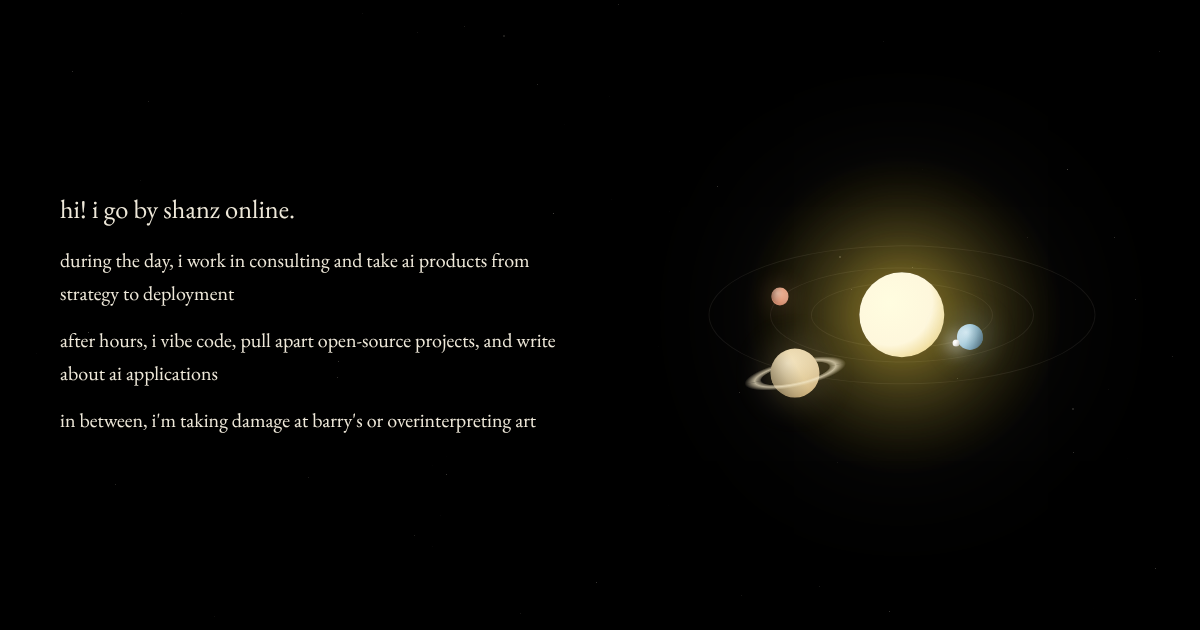
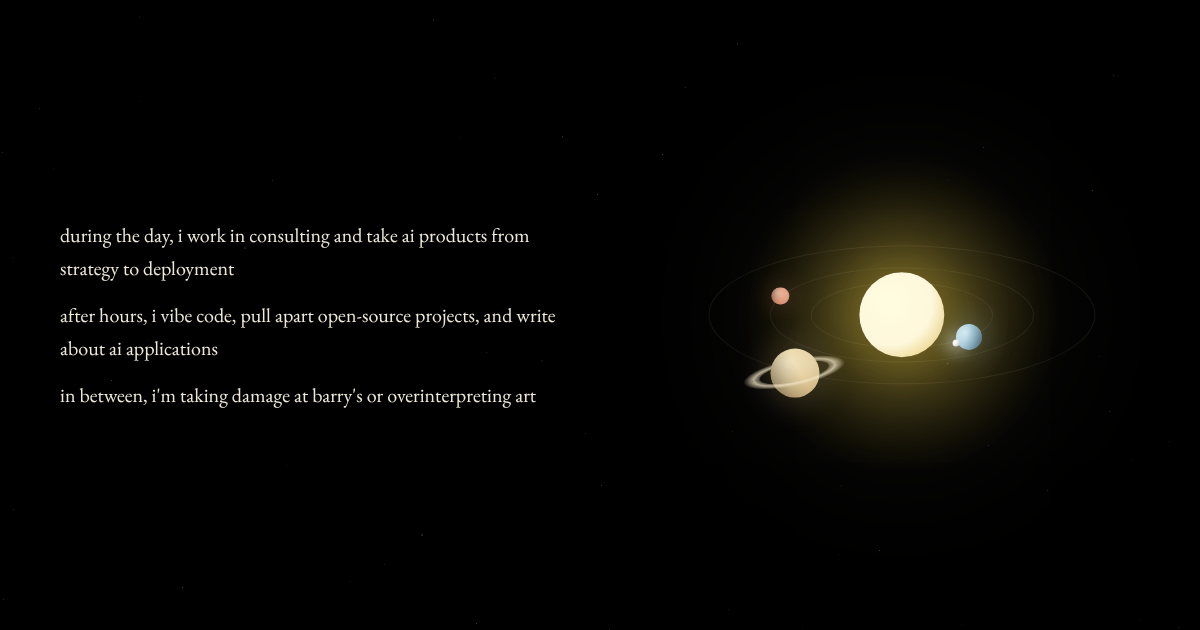
Brighter light-mode sun, two glyph toggles, no extra text
- Light-mode sun is warmer with its own glow so it reads on cream
- Intro starts straight with the three lines; hint text removed
- Nav keeps two single-tap toggles drawn like thin printed glyphs: ringed planet / text lines for orbit and list, moon / sun for dark and light
- Share image refreshed

Claude-Session: https://claude.ai/code/session_01FJYN4tq9LT6hXovEqc6Yei

Changed region(s): [[0.0308, 0.3317, 0.4625, 0.6937], [0.6167, 0.573, 0.6475, 0.6333], [0.6783, 0.573, 0.7092, 0.6032]]

diff --git a/index.html b/index.html
@@ -56,7 +56,7 @@
     --star: #2b2b2b;
     --star-max: 0;
     --scrim: rgba(247,244,233,.97);
-    --sun-glow: rgba(240,200,80,.30); --sun-glow2: rgba(240,200,80,.10);
+    --sun-glow: rgba(238,180,60,.34); --sun-glow2: rgba(238,180,60,.12);
     --night: .22; --earth-glow: rgba(120,170,200,.2); --mars-glow: rgba(210,130,100,.16); --saturn-glow: rgba(200,170,110,.16);
     --moon-glow: rgba(255,255,255,.7); --ring-a: rgba(196,170,120,.35); --ring-b: rgba(190,160,105,.7);
     --writing-hi: #a9cbdb; --writing: #7fa9bf; --writing-lo: #567f95; --writing-glow: rgba(127,169,191,.22);
@@ -108,23 +108,14 @@
   }
   #nav a { text-decoration: none; transition: color .2s; }
   #nav a:hover { color: var(--ink); }
-  .icons { display: inline-flex; align-items: center; gap: 4px; margin-left: 4px; }
-  .ico { width: 38px; height: 38px; display: inline-grid; place-items: center; color: var(--faint);
-    border-radius: 50%; transition: color .2s, background .2s; }
+  .icons { display: inline-flex; align-items: center; gap: 2px; margin-left: 2px; }
+  .ico { width: 34px; height: 34px; display: inline-grid; place-items: center; color: var(--muted);
+    border-radius: 50%; transition: color .2s, transform .35s ease; }
   .ico:hover { color: var(--ink); }
-  .ico[aria-pressed="true"] { color: var(--ink); }
-  .ico svg { width: 23px; height: 23px; overflow: visible; }
-  .sep { width: 1px; height: 18px; background: var(--rule); margin: 0 6px; }
-  /* the lamp: shade, bulb, pull cord */
-  #lamp { width: 38px; height: 44px; color: var(--muted); }
-  #lamp svg { width: 24px; height: 33px; }
-  #lamp .bulb { fill: transparent; transition: fill .3s; }
-  #lamp .beam { opacity: 0; transition: opacity .3s; }
-  :root[data-theme="light"] #lamp .bulb { fill: #f4c95d; }
-  :root[data-theme="light"] #lamp .beam { opacity: .55; }
-  #lamp .cord { transition: transform .18s ease-out; transform-origin: top; }
-  #lamp.pull .cord { transform: translateY(5px); }
-  #lamp:hover { color: var(--ink); }
+  .ico svg { width: 19px; height: 19px; grid-area: 1 / 1; transition: opacity .3s, transform .45s ease; }
+  /* each toggle shows its current state; a tap swaps the glyph */
+  body.orbit .g-list, body.list .g-orbit { opacity: 0; transform: rotate(-60deg) scale(.6); }
+  :root[data-theme="dark"] .g-sun, :root[data-theme="light"] .g-moon { opacity: 0; transform: rotate(60deg) scale(.6); }
 
   /* ── INTRO ── */
   #top { position: relative; z-index: 20; padding: calc(max(16px, env(safe-area-inset-top)) + 58px) 20px 4px; }
@@ -153,6 +144,11 @@
     background: radial-gradient(circle at 36% 36%, #fffde0, #fef7dc 55%, #e2c25a);
     box-shadow: 0 0 55px 18px rgba(254,220,60,.26), 0 0 120px 50px rgba(254,247,220,.08);
     animation: pulse-orb 4s ease-in-out infinite;
+  }
+  :root[data-theme="light"] .sun-orb {
+    background: radial-gradient(circle at 36% 36%, #fff6cf, #f7d877 52%, #e5a640);
+    box-shadow: 0 0 0 1px rgba(214,150,50,.18), 0 0 40px 10px rgba(240,180,60,.35), 0 0 110px 40px rgba(240,190,80,.16);
+    animation: none;
   }
   @keyframes pulse-orb {
     0%,100% { box-shadow: 0 0 55px 18px rgba(254,220,60,.26), 0 0 120px 50px rgba(254,247,220,.08); }
@@ -307,28 +303,19 @@
   <a href="https://substack.com/@notshananigans" target="_blank" rel="noopener">Substack</a>
   <a href="https://x.com/notshananigans" target="_blank" rel="noopener">X</a>
   <span class="icons">
-    <button type="button" class="ico" data-view="orbit" aria-label="orbit view" title="orbit" aria-pressed="true">
-      <svg viewBox="0 0 24 24" fill="none" stroke="currentColor" stroke-width="1.3" stroke-linecap="round"><circle cx="12" cy="12" r="5.6"/><path d="M6.9 13.7C3.4 15 1.5 16.5 2 17.5c.9 1.7 6.6.6 12.4-2.6S23.1 7.6 22.1 5.9c-.5-1-2.6-1-5.5-.1"/></svg>
+    <button type="button" class="ico" id="view-toggle" aria-label="switch to list view" title="list view">
+      <svg class="g-orbit" viewBox="0 0 20 20" fill="none" stroke="currentColor" stroke-width="1"><defs><clipPath id="ring-front"><rect x="0" y="10" width="20" height="10"/></clipPath></defs><g transform="rotate(-22 10 10)"><ellipse cx="10" cy="10" rx="8.6" ry="2.6"/><circle cx="10" cy="10" r="4.4" fill="var(--bg)"/><ellipse cx="10" cy="10" rx="8.6" ry="2.6" clip-path="url(#ring-front)"/></g></svg>
+      <svg class="g-list" viewBox="0 0 20 20" fill="none" stroke="currentColor" stroke-width="1" stroke-linecap="round"><path d="M4 6.5h12M4 10h12M4 13.5h8"/></svg>
     </button>
-    <button type="button" class="ico" data-view="list" aria-label="list view" title="list" aria-pressed="false">
-      <svg viewBox="0 0 24 24" fill="none" stroke="currentColor" stroke-width="1.3" stroke-linecap="round" stroke-linejoin="round"><path d="M15.6 4.4l4 4L8.4 19.6 3.6 20.4l.8-4.8z"/><path d="M13.4 6.6l4 4"/></svg>
-    </button>
-    <span class="sep" aria-hidden="true"></span>
-    <button type="button" class="ico" id="lamp" aria-label="toggle light and dark" title="pull for light">
-      <svg viewBox="0 0 22 30" fill="none" stroke="currentColor" stroke-width="1.3" stroke-linecap="round" stroke-linejoin="round">
-        <path class="beam" d="M5 13 L1 27 M11 14 L11 28 M17 13 L21 27" stroke="#f4c95d" stroke-width="1" stroke-dasharray="1.5 2.5"/>
-        <path d="M11 1v3"/>
-        <path d="M6 4h10l3.5 8h-17z"/>
-        <circle class="bulb" cx="11" cy="13.6" r="2.2"/>
-        <g class="cord"><path d="M16.5 12v8"/><circle cx="16.5" cy="21.3" r="1.2" fill="currentColor"/></g>
-      </svg>
+    <button type="button" class="ico" id="theme-toggle" aria-label="switch theme" title="switch theme">
+      <svg class="g-moon" viewBox="0 0 20 20" fill="none" stroke="currentColor" stroke-width="1" stroke-linejoin="round"><path d="M12.6 3.4a6.9 6.9 0 1 0 4.2 9.9 5.6 5.6 0 0 1-4.2-9.9z"/></svg>
+      <svg class="g-sun" viewBox="0 0 20 20" fill="none" stroke="currentColor" stroke-width="1"><circle cx="10" cy="10" r="5.4"/><circle cx="10" cy="10" r="1.1" fill="currentColor" stroke="none"/></svg>
     </button>
   </span>
 </nav>
 
 <header id="top">
   <div class="intro">
-    <p class="hello">hi! i go by shanz online.</p>
     <p>during the day, i work in consulting and take ai products from strategy to deployment</p>
     <p>after hours, i vibe code, pull apart open-source projects, and write about ai applications</p>
     <p>in between, i'm taking damage at barry's or overinterpreting art</p>
@@ -337,7 +324,6 @@
 
 <main id="stage" aria-label="orbit view">
   <div id="system"></div>
-  <div id="hint">everything here is clickable</div>
 </main>
 
 <main id="list" aria-label="list view"><div class="wrap" id="list-wrap"></div></main>
@@ -660,7 +646,9 @@ function tick(now) {
 
 function setView(v, save = true) {
   document.body.className = v;
-  document.querySelectorAll('[data-view]').forEach(b => b.setAttribute('aria-pressed', String(b.dataset.view === v)));
+  const vt = document.getElementById('view-toggle');
+  vt.setAttribute('aria-label', v === 'orbit' ? 'switch to list view' : 'switch to orbit view');
+  vt.title = v === 'orbit' ? 'list view' : 'orbit view';
   if (save) {
     try { localStorage.setItem('shanz-view', v); } catch (e) {}
     history.replaceState(null, '', v === 'list' ? '#list' : location.pathname);
@@ -668,23 +656,19 @@ function setView(v, save = true) {
   if (v === 'orbit') requestAnimationFrame(layout);
   window.scrollTo(0, 0);
 }
-document.querySelectorAll('[data-view]').forEach(b => b.addEventListener('click', () => setView(b.dataset.view)));
+document.getElementById('view-toggle').addEventListener('click', () => setView(document.body.classList.contains('list') ? 'orbit' : 'list'));
 
 /* ───────────── THEME ───────────── */
 function applyTheme(t, save) {
   document.documentElement.dataset.theme = t;
-  const lamp = document.getElementById('lamp');
-  if (lamp) lamp.title = t === 'light' ? 'pull for dark' : 'pull for light';
+  const tt = document.getElementById('theme-toggle');
+  if (tt) tt.title = t === 'light' ? 'dark mode' : 'light mode';
   const m = document.querySelector('meta[name="theme-color"]');
   if (m) m.setAttribute('content', t === 'light' ? '#f7f4e9' : '#000000');
   if (save) { try { localStorage.setItem('shanz-theme', t); } catch (e) {} }
 }
-document.getElementById('lamp').addEventListener('click', e => {
-  const lamp = e.currentTarget;
-  lamp.classList.add('pull');
-  setTimeout(() => lamp.classList.remove('pull'), 180);
-  applyTheme(document.documentElement.dataset.theme === 'light' ? 'dark' : 'light', true);
-});
+document.getElementById('theme-toggle').addEventListener('click', () =>
+  applyTheme(document.documentElement.dataset.theme === 'light' ? 'dark' : 'light', true));
 applyTheme(document.documentElement.dataset.theme || 'dark', false);
 
 let initial = 'orbit';
